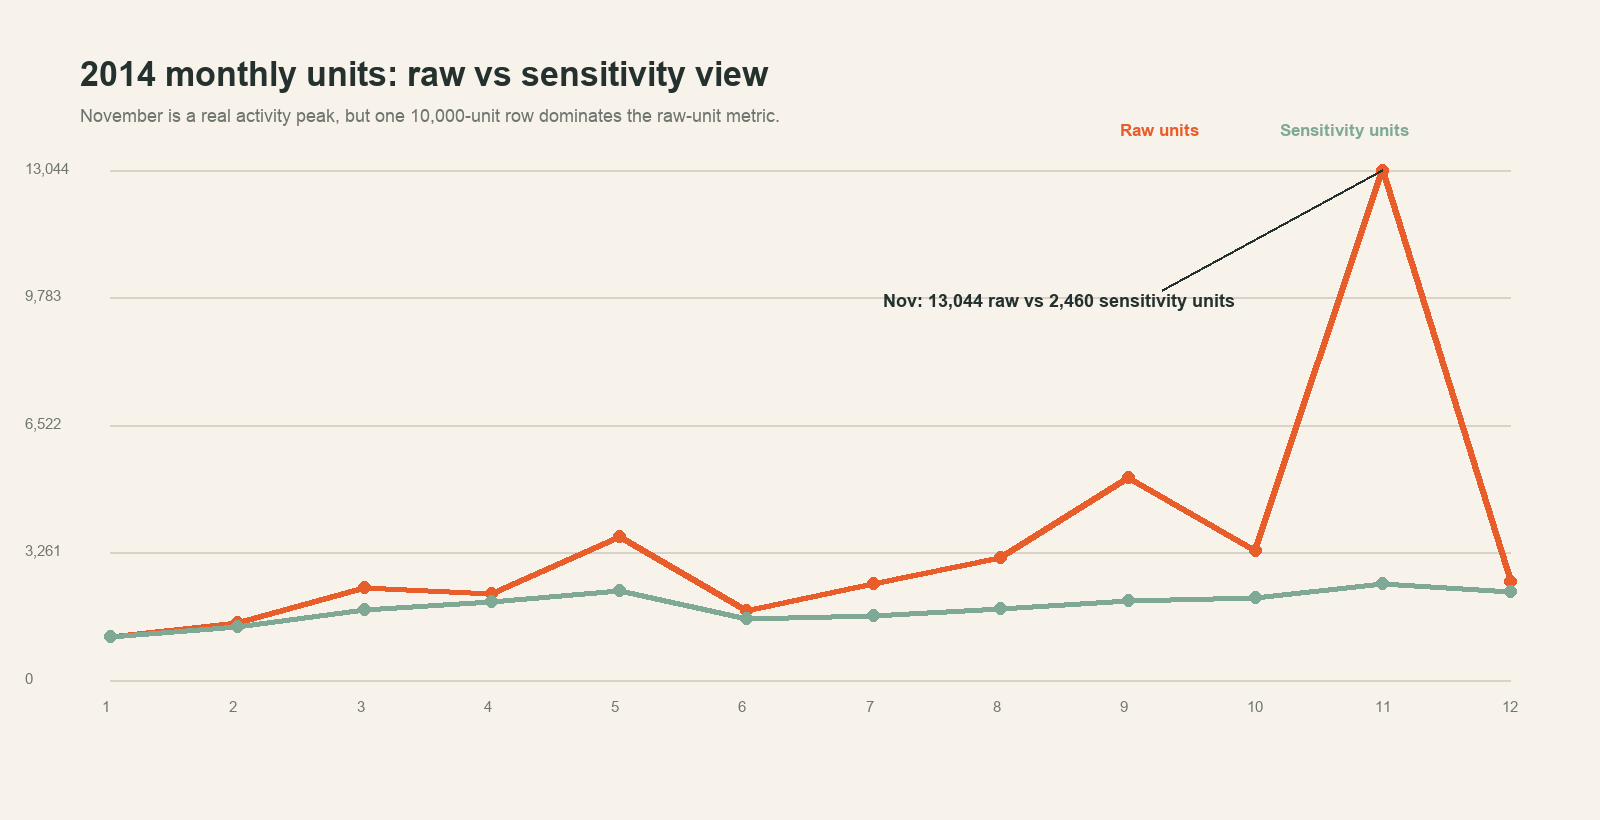
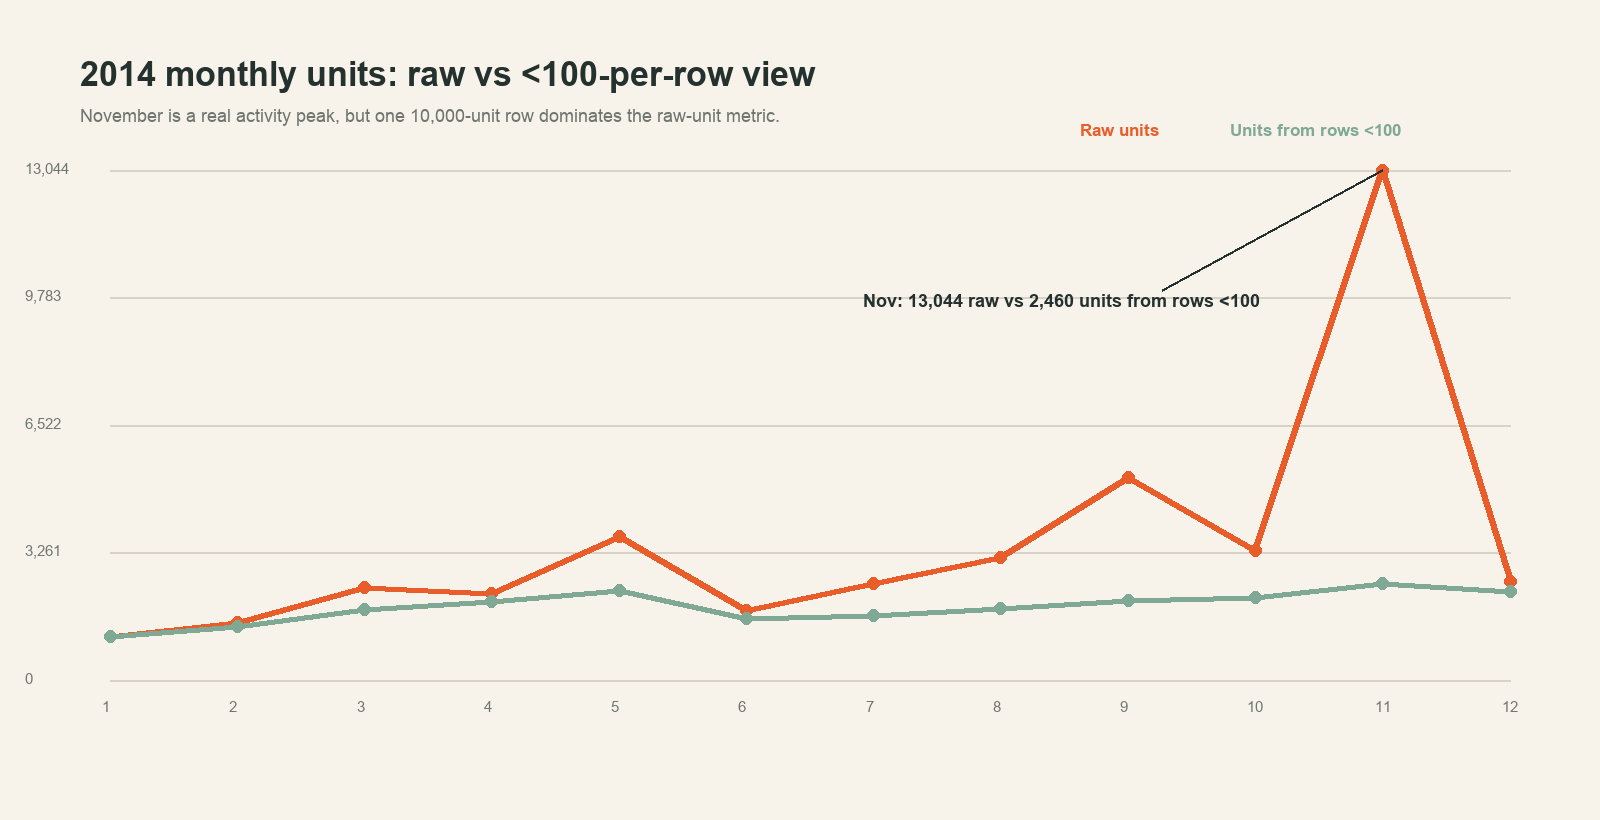
20260717

diff --git a/website/app/page.tsx b/website/app/page.tsx
@@ -63,7 +63,7 @@ const copy = {
     chartHint: "切换年份和指标，查看原始销量与敏感性口径的差异。",
     anomaly: "11月的真实高峰，被一条10,000件记录进一步放大",
     anomalyBody:
-      "2014年11月交易记录和敏感性件数均为样本期第一；但原始13,044件中，单条10,000件记录占76.66%。",
+      "2014年11月交易记录和单条<100件口径的购买件数均为样本期第一；但原始13,044件中，单条10,000件记录占76.66%。",
     question3: "03 · 哪些品类推动增长？",
     heading3: "核心品类稳定，销量排名却会被大数量记录改变",
     body3:
@@ -94,7 +94,7 @@ const copy = {
     units: "件",
     rows: "交易记录",
     raw: "原始件数",
-    safe: "敏感性件数",
+    safe: "购买件数（单条<100）",
     language: "EN",
   },
   en: {
@@ -119,7 +119,7 @@ const copy = {
     chartHint: "Switch year and metric to compare raw units with the sensitivity view.",
     anomaly: "A real November peak, amplified by one 10,000-unit row",
     anomalyBody:
-      "November 2014 ranks first for both trade rows and sensitivity units, yet one 10,000-unit row represents 76.66% of its 13,044 raw units.",
+      "November 2014 ranks first for both trade rows and units from rows below 100, yet one 10,000-unit row represents 76.66% of its 13,044 raw units.",
     question3: "03 · Which categories drove growth?",
     heading3: "The core category is stable, while raw-unit ranks are not",
     body3:
@@ -150,7 +150,7 @@ const copy = {
     units: "units",
     rows: "Trade rows",
     raw: "Raw units",
-    safe: "Sensitivity units",
+    safe: "Units from rows <100",
     language: "中",
   },
 };
@@ -259,7 +259,7 @@ export default function Home() {
             <div className="stat-strip">
               <article><span>2014 TRADE ROWS</span><strong>+54.04%</strong></article>
               <article><span>2014 USERS</span><strong>+54.13%</strong></article>
-              <article><span>SENSITIVITY UNITS</span><strong>+49.27%</strong></article>
+              <article><span>UNITS FROM ROWS &lt;100</span><strong>+49.27%</strong></article>
               <article className="quiet"><span>CROSS-DAY REPEAT</span><strong>0.0802%</strong></article>
             </div>
 

diff --git a/docs/04_final_analysis_report.md b/docs/04_final_analysis_report.md
@@ -19,7 +19,7 @@ structure, and the limited customer signals available. The core table contains
 
 1. 2014 年交易记录和购买用户分别同比增长 54.04% 和 54.13%，增长主要来自
    更多购买用户，而不是购买频次提升。
-2. 原始购买件数同比增长 85.16%，但 `<100` 敏感性件数仅增长 49.27%。单笔
+2. 原始购买件数同比增长 85.16%，但 `<100` 口径购买件数仅增长 49.27%。单笔
    100 件及以上的记录贡献了总件数增量的 61.70%。
 3. `cat1=50008168` 是覆盖最广、最稳定的一级品类；前三个一级品类贡献了
    2013→2014 年 81.28% 的交易记录增量。
@@ -84,7 +84,7 @@ validated SQL, aggregated evidence, figures, and bilingual documentation.
 | 交易记录数 / Trade rows | `COUNT(*)` | 衡量交易活动规模 / Activity scale |
 | 购买用户数 / Purchasing users | `COUNT(DISTINCT user_id)` | 衡量用户覆盖 / User reach |
 | 原始购买件数 / Raw units | `SUM(buy_amount)` | 保留原始业务记录 / Raw recorded quantity |
-| 敏感性件数 / Sensitivity units | `SUM(CASE WHEN buy_amount < 100 THEN buy_amount ELSE 0 END)` | 判断结论是否被大数量记录改变 / Test high-quantity influence |
+| 购买件数（单条记录 `<100`）/ Units from rows `<100` | `SUM(CASE WHEN buy_amount < 100 THEN buy_amount ELSE 0 END)` | 判断结论是否被大数量记录改变 / Test high-quantity influence |
 | 跨日复购用户 / Cross-day repeat user | 至少两个不同购买日期 / At least two purchase dates | 避免把同日多商品误判为复购 / Avoid same-day misclassification |
 
 `100` 是敏感性分析阈值，不是异常值删除规则。缺乏订单类型和单位信息时，不能把
@@ -117,7 +117,7 @@ order type or unit definition, high-quantity rows cannot be labeled errors.
 | 一级品类 / Top-level categories | 6 |
 | 细分类目 / Detailed categories | 662 |
 | 原始购买件数 / Raw units | 76,250 |
-| 敏感性购买件数 / Sensitivity units | 45,755 |
+| 购买件数（单条记录 `<100`）/ Units from rows `<100` | 45,755 |
 
 交易记录仅比购买用户多 27，人均交易记录为 1.0009。这一结构预示复购信号很弱，
 后续用户级聚合也验证了这一判断。
@@ -133,8 +133,8 @@ and foreshadowing the weak repeat-purchase signal confirmed later.
 ![2014年度同比增长](../assets/figures/01_annual_growth.png)
 
 *图1：2014年交易活动指标与件数指标同比。原始件数增速明显偏离交易记录、用户和
-敏感性件数。 / Figure 1. Raw-unit growth diverges from activity and sensitivity
-metrics.*
+`<100`口径购买件数。 / Figure 1. Raw-unit growth diverges from activity and
+the `<100`-per-row view.*
 
 2014 年交易记录与用户增长基本一致，说明增长主要由用户规模扩大推动。原始件数
 增速比敏感性口径高 35.89 个百分点；高数量件数同比增长 155.43%，并贡献总件数
@@ -142,12 +142,12 @@ metrics.*
 
 ### 6.1 2014年11月高峰 | November 2014 peak
 
-![2014月度原始与敏感性件数](../assets/figures/02_monthly_sensitivity.png)
+![2014月度原始件数与单条记录小于100件口径](../assets/figures/02_monthly_sensitivity.png)
 
-*图2：2014年月度原始件数与敏感性件数。 / Figure 2. Monthly raw and
-sensitivity units in 2014.*
+*图2：2014年月度原始件数与购买件数（单条记录 `<100`）。 / Figure 2.
+Monthly raw units and units from rows below 100 in 2014.*
 
-2014 年 11 月有 1,833 条交易记录和 2,460 件敏感性购买件数，两项均为样本期
+2014 年 11 月有 1,833 条交易记录和 2,460 件 `<100` 口径购买件数，两项均为样本期
 最高，说明当月确有真实活动高峰。但原始 13,044 件中，仅一条 10,000 件记录就
 占 76.66%；当月 6 条高数量记录合计贡献 81.14% 的原始件数。
 
@@ -160,7 +160,7 @@ units, while retaining raw units as an auditable secondary view.
 ![一级品类指标对比](../assets/figures/03_category_comparison.png)
 
 *图3：一级品类份额矩阵。每一行固定代表一个 `cat1`，四列依次展示交易记录占比、
-原始件数占比、敏感性件数占比和品类内部高数量件数占比，所有条形采用统一的
+原始件数占比、`<100` 口径件数占比和品类内部高数量件数占比，所有条形采用统一的
 0–60%刻度。 / Figure 3. Top-level category share matrix using a shared 0–60%
 scale across four directly labeled measures.*
 
@@ -173,7 +173,7 @@ mark the two categories most affected by high quantities. Neutral separator
 lines keep the remaining categories easy to follow without competing with the
 main findings.
 
-`50008168` 贡献 41.69% 的交易记录和 32.37% 的敏感性件数，是覆盖最广、表现
+`50008168` 贡献 41.69% 的交易记录和 32.37% 的 `<100` 口径购买件数，是覆盖最广、表现
 最稳定的一级品类。`28` 和 `50014815` 的高数量件数分别占自身原始件数的
 52.15% 和 56.81%，仅用原始件数排序会改变对品类表现的判断。
 
@@ -280,7 +280,8 @@ the plausible matched-subsample window.*
 
 ### 11.1 指标治理 | Metric governance
 
-- 看板主要使用交易记录、购买用户和敏感性件数；原始件数作为可追溯对照。
+- 看板主要使用交易记录、购买用户和购买件数（单条记录 `<100`）；原始件数作为
+  可追溯对照。
 - 对单笔 100 件及以上记录建立审核标签，补充订单类型、计量单位和采购身份后再
   决定是否属于批量采购或数据异常。
 - 不把购买件数表述为销售额、收入或利润。

diff --git a/docs/03_analysis_results.md b/docs/03_analysis_results.md
@@ -105,19 +105,20 @@ that the activity peak was not solely created by high-quantity rows.
 
 但当月原始 13,044 件中，6 条 `buy_amount >= 100` 的记录贡献 10,584 件，即
 81.14%；其中单条 10,000 件记录占当月总件数 76.66%。因此，11 月原始件数同比
-增长 413.95%，而敏感性件数同比仅增长 46.69%。看板与结论应同时展示交易记录、
-原始件数和敏感性件数，且不能在缺乏业务证据时把大数量记录直接认定为错误。
+增长 413.95%，而 `<100` 口径购买件数同比仅增长 46.69%。看板与结论应同时展示
+交易记录、原始件数和购买件数（单条记录 `<100`），且不能在缺乏业务证据时把
+大数量记录直接认定为错误。
 
 However, six rows with `buy_amount >= 100` contributed 10,584 of November's
 13,044 raw units, or 81.14%; one 10,000-unit row alone represented 76.66%.
-Consequently, raw units grew 413.95% year over year while sensitivity units grew
-only 46.69%. The dashboard should show trade rows, raw units, and sensitivity
-units together, without labeling high-quantity rows as errors absent business
-evidence.
+Consequently, raw units grew 413.95% year over year while units from rows below
+100 grew only 46.69%. The dashboard should show trade rows, raw units, and the
+`<100`-per-row view together, without labeling high-quantity rows as errors
+absent business evidence.
 
 ## 5. 品类结构与增长 | Category structure and growth
 
-`cat1=50008168` 贡献 41.69% 的交易记录和 32.37% 的敏感性购买件数，是覆盖
+`cat1=50008168` 贡献 41.69% 的交易记录和 32.37% 的 `<100` 口径购买件数，是覆盖
 最广且表现最稳定的一级品类。原始件数最高的 `cat1=28` 有 52.15% 来自高数量
 记录；`cat1=50014815` 的对应比例更高达 56.81%，因此两者不能仅凭原始件数
 排名判断品类表现。数据没有提供品类名称映射，结论保留原始编码，不推测名称。
@@ -141,14 +142,14 @@ absolute contribution should be evaluated together.
 
 ### 细分类目与长尾 | Detailed categories and long tail
 
-662 个 `cat_id` 均只对应一个 `cat1`。交易记录 Top 10 仅占 31.29%，敏感性件数
+662 个 `cat_id` 均只对应一个 `cat1`。交易记录 Top 10 仅占 31.29%，`<100` 口径
 Top 10 占 30.58%；两种口径都需要 123 个细分类目才能达到累计 80%。123 个占
 全部细分类目的 18.58%，接近二八分布，同时 Top 10 占比不高，体现出头部集中与
 长尾并存。`cat_id=50018831` 的高数量件数占自身原始件数 87.13%，其原始销量
 排名尤其需要谨慎解释。
 
 Each of the 662 `cat_id` values maps to one `cat1`. The Top 10 account for only
-31.29% of trade rows and 30.58% of sensitivity units; both measures require 123
+31.29% of trade rows and 30.58% of units from rows below 100; both measures require 123
 detailed categories to reach 80% cumulatively. Those 123 represent 18.58% of
 all detailed categories, broadly resembling an 80/20 distribution while the
 low Top-10 share still indicates a substantial long tail. For